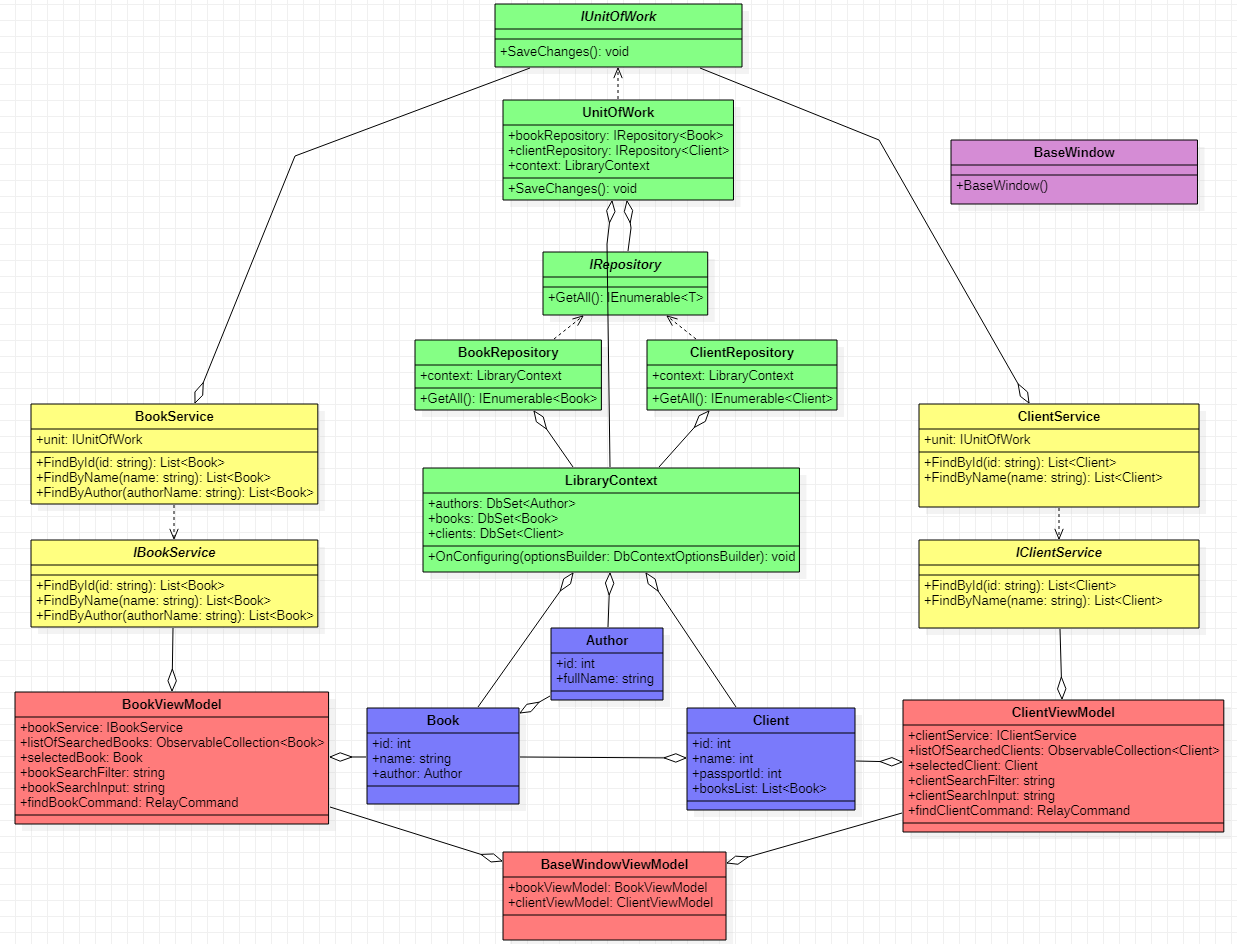
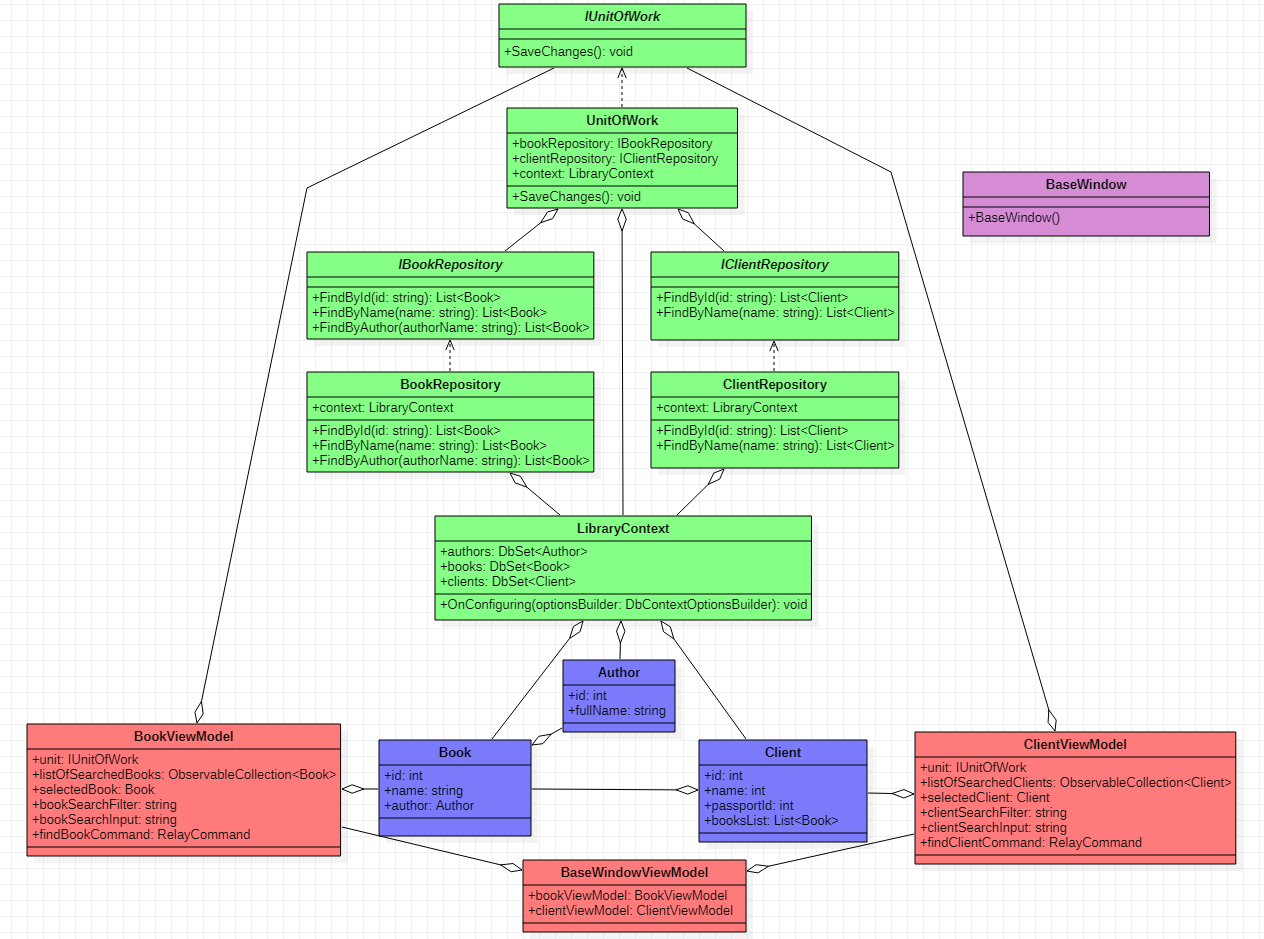
Removed Useless services and fixed Repos

diff --git a/Library/ViewModel/BookViewModel.cs b/Library/ViewModel/BookViewModel.cs
@@ -7,7 +7,7 @@ namespace Library.ViewModel
 {
     public class BookViewModel : INotifyPropertyChanged
     {
-        private readonly Business.IBookService bookService;
+        private readonly Data.IUnitOfWork unit;
 
         public ObservableCollection<Model.Book> ListOfSearchedBooks { get; set; }
 
@@ -57,15 +57,15 @@ namespace Library.ViewModel
 
                         if (BookSearchFilter == "за бібліотечним номером")
                         {
-                            searchedList = bookService.FindById(BookSearchInput);
+                            searchedList = unit.BookRepository.FindById(BookSearchInput);
                         }
                         else if (BookSearchFilter == "за назвою")
                         {
-                            searchedList = bookService.FindByName(BookSearchInput);
+                            searchedList = unit.BookRepository.FindByName(BookSearchInput);
                         }
                         else if (BookSearchFilter == "за автором")
                         {
-                            searchedList = bookService.FindByAuthor(BookSearchInput);
+                            searchedList = unit.BookRepository.FindByAuthor(BookSearchInput);
                         }
 
                         searchedList.ForEach(x => ListOfSearchedBooks.Add(x));
@@ -74,9 +74,9 @@ namespace Library.ViewModel
         }
 
 
-        public BookViewModel(Business.IBookService bookService)
+        public BookViewModel(Data.IUnitOfWork unit)
         {
-            this.bookService = bookService;
+            this.unit = unit;
 
             ListOfSearchedBooks = new ObservableCollection<Model.Book>();
         }

diff --git a/Library/ViewModel/ClientViewModel.cs b/Library/ViewModel/ClientViewModel.cs
@@ -8,7 +8,7 @@ namespace Library.ViewModel
 {
     public class ClientViewModel : INotifyPropertyChanged
     {
-        private readonly Business.IClientService clientService;
+        private readonly Data.IUnitOfWork unit;
 
         public ObservableCollection<Model.Client> ListOfSearchedClients { get; set; }
 
@@ -59,11 +59,11 @@ namespace Library.ViewModel
 
                         if (ClientSearchFilter == "за номером читацького квитка")
                         {
-                            searchedList = clientService.FindById(ClientSearchInput);
+                            searchedList = unit.ClientRepository.FindById(ClientSearchInput);
                         }
                         else if (ClientSearchFilter == "за ПІБ")
                         {
-                            searchedList = clientService.FindByName(ClientSearchInput);
+                            searchedList = unit.ClientRepository.FindByName(ClientSearchInput);
                         }
 
                         searchedList.ForEach(x => ListOfSearchedClients.Add(x));
@@ -73,9 +73,9 @@ namespace Library.ViewModel
 
 
 
-        public ClientViewModel(Business.IClientService clientService)
+        public ClientViewModel(Data.IUnitOfWork unit)
         {
-            this.clientService = clientService;
+            this.unit = unit;
 
             ListOfSearchedClients = new ObservableCollection<Model.Client>();
         }

diff --git a/Library/Data/Repositories/BookRepository.cs b/Library/Data/Repositories/BookRepository.cs
@@ -1,10 +1,11 @@
-using System.Collections.Generic;
+using System;
+using System.Collections.Generic;
 using System.Linq;
 using Microsoft.EntityFrameworkCore;
 
 namespace Library.Data
 {
-    public class BookRepository : IRepository<Model.Book>
+    public class BookRepository : IBookRepository
     {
         private readonly LibraryContext context;
 
@@ -14,9 +15,27 @@ namespace Library.Data
             this.context = context;
         }
 
-        public IEnumerable<Model.Book> GetAll()
+
+        public List<Model.Book> FindById(string id)
         {
-            return context.Books.Include(p => p.Author).ToList();
+            int searchId = -1;
+            if (!string.IsNullOrEmpty(id) && id.All(char.IsDigit))
+            {
+                searchId = Convert.ToInt32(id);
+            }
+
+            return context.Books.ToList().FindAll(x => x.Id == searchId);
         }
+
+        public List<Model.Book> FindByName(string name)
+        {
+            return context.Books.ToList().FindAll(x => x.Name == name);
+        }
+
+        public List<Model.Book> FindByAuthor(string authorName)
+        {
+            return context.Books.ToList().FindAll(x => x.Author.FullName == authorName);
+        }
+
     }
 }

diff --git a/Library/Data/Repositories/ClientRepository.cs b/Library/Data/Repositories/ClientRepository.cs
@@ -1,9 +1,10 @@
-using System.Collections.Generic;
+using System;
+using System.Collections.Generic;
 using System.Linq;
 
 namespace Library.Data
 {
-    public class ClientRepository : IRepository<Model.Client>
+    public class ClientRepository : IClientRepository
     {
         private readonly LibraryContext context;
 
@@ -12,9 +13,21 @@ namespace Library.Data
             this.context = context;
         }
 
-        public IEnumerable<Model.Client> GetAll()
+        public List<Model.Client> FindById(string id)
         {
-            return context.Clients.ToList();
+            int searchId = -1;
+            if (!string.IsNullOrEmpty(id) && id.All(char.IsDigit))
+            {
+                searchId = Convert.ToInt32(id);
+            }
+
+            return context.Clients.ToList().FindAll(x => x.Id == searchId);
         }
+
+        public List<Model.Client> FindByName(string name)
+        {
+            return context.Clients.ToList().FindAll(x => x.Name == name);
+        }
+
     }
 }

diff --git a/Library/Data/UnitOfWork.cs b/Library/Data/UnitOfWork.cs
@@ -3,15 +3,15 @@
     public class UnitOfWork: IUnitOfWork
     {
         private readonly LibraryContext context;
-        private IRepository<Model.Book> bookRepository;
-        private IRepository<Model.Client> clientRepository;
+        private IBookRepository bookRepository;
+        private IClientRepository clientRepository;
 
         public UnitOfWork(LibraryContext context)
         {
             this.context = context;
         }
 
-        public IRepository<Model.Book> BookRepository
+        public IBookRepository BookRepository
         {
             get
             {
@@ -19,7 +19,7 @@
             }
         }
 
-        public IRepository<Model.Client> ClientRepository
+        public IClientRepository ClientRepository
         {
             get
             {

diff --git a/Library/Data/LibraryContext.cs b/Library/Data/LibraryContext.cs
@@ -1,4 +1,5 @@
-using Microsoft.EntityFrameworkCore;
+using System.Configuration;
+using Microsoft.EntityFrameworkCore;
 
 namespace Library.Data
 {
@@ -11,8 +12,12 @@ namespace Library.Data
 
         protected override void OnConfiguring(DbContextOptionsBuilder optionsBuilder)
         {
-            optionsBuilder.EnableSensitiveDataLogging();
+            //optionsBuilder.EnableSensitiveDataLogging();
+            // "Server=(localdb)\\mssqllocaldb;Database=helloappdb;Trusted_Connection=True;"
+
+            var connectionString = ConfigurationManager.ConnectionStrings["LibraryDbConnection"].ConnectionString;
             optionsBuilder.UseSqlServer("Server=(localdb)\\mssqllocaldb;Database=helloappdb;Trusted_Connection=True;");
+            ;
         }
 
     }

diff --git a/Library/ViewModel/BaseWindowViewModel.cs b/Library/ViewModel/BaseWindowViewModel.cs
@@ -1,14 +1,16 @@
-namespace Library.ViewModel
+using Library.Data;
+
+namespace Library.ViewModel
 {
     public class BaseWindowViewModel
     {
         public ClientViewModel ClientViewModel { get; set; }
         public BookViewModel BookViewModel { get; set; }
 
-        public BaseWindowViewModel(Business.IClientService clientService, Business.IBookService bookService)
+        public BaseWindowViewModel(IUnitOfWork unit)
         {
-            ClientViewModel = new ClientViewModel(clientService); ;
-            BookViewModel = new BookViewModel(bookService);
+            ClientViewModel = new ClientViewModel(unit); ;
+            BookViewModel = new BookViewModel(unit);
         }
     }
 }

diff --git a/Library/Configs/ViewModelCreator.cs b/Library/Configs/ViewModelCreator.cs
@@ -13,10 +13,7 @@
         {
             Data.IUnitOfWork unitOfWork = new Data.UnitOfWork(libraryContext);
 
-            Business.IClientService clientService = new Business.ClientService(unitOfWork);
-            Business.IBookService bookService = new Business.BookService(unitOfWork);
-
-            return new ViewModel.BaseWindowViewModel(clientService, bookService);
+            return new ViewModel.BaseWindowViewModel(unitOfWork);
         }
     }
 }

diff --git a/Library/Data/Interfaces/IBookRepository.cs b/Library/Data/Interfaces/IBookRepository.cs
@@ -1,11 +1,13 @@
 using System.Collections.Generic;
 
-namespace Library.Business
+
+namespace Library.Data
 {
-    public interface IBookService
+    public interface IBookRepository
     {
         List<Model.Book> FindById(string id);
         List<Model.Book> FindByName(string name);
         List<Model.Book> FindByAuthor(string authorName);
+
     }
 }

diff --git a/Library/Data/Interfaces/IUnitOfWork.cs b/Library/Data/Interfaces/IUnitOfWork.cs
@@ -2,8 +2,8 @@
 {
     public interface IUnitOfWork
     {
-        IRepository<Model.Book> BookRepository { get; }
-        IRepository<Model.Client> ClientRepository { get; }
+        IBookRepository BookRepository { get; }
+        IClientRepository ClientRepository { get; }
 
         void SaveChanges();
     }

diff --git a/Library/Data/Interfaces/IClientRepository.cs b/Library/Data/Interfaces/IClientRepository.cs
@@ -1,8 +1,8 @@
 using System.Collections.Generic;
 
-namespace Library.Business
+namespace Library.Data
 {
-    public interface IClientService
+    public interface IClientRepository
     {
         List<Model.Client> FindById(string id);
         List<Model.Client> FindByName(string name);
